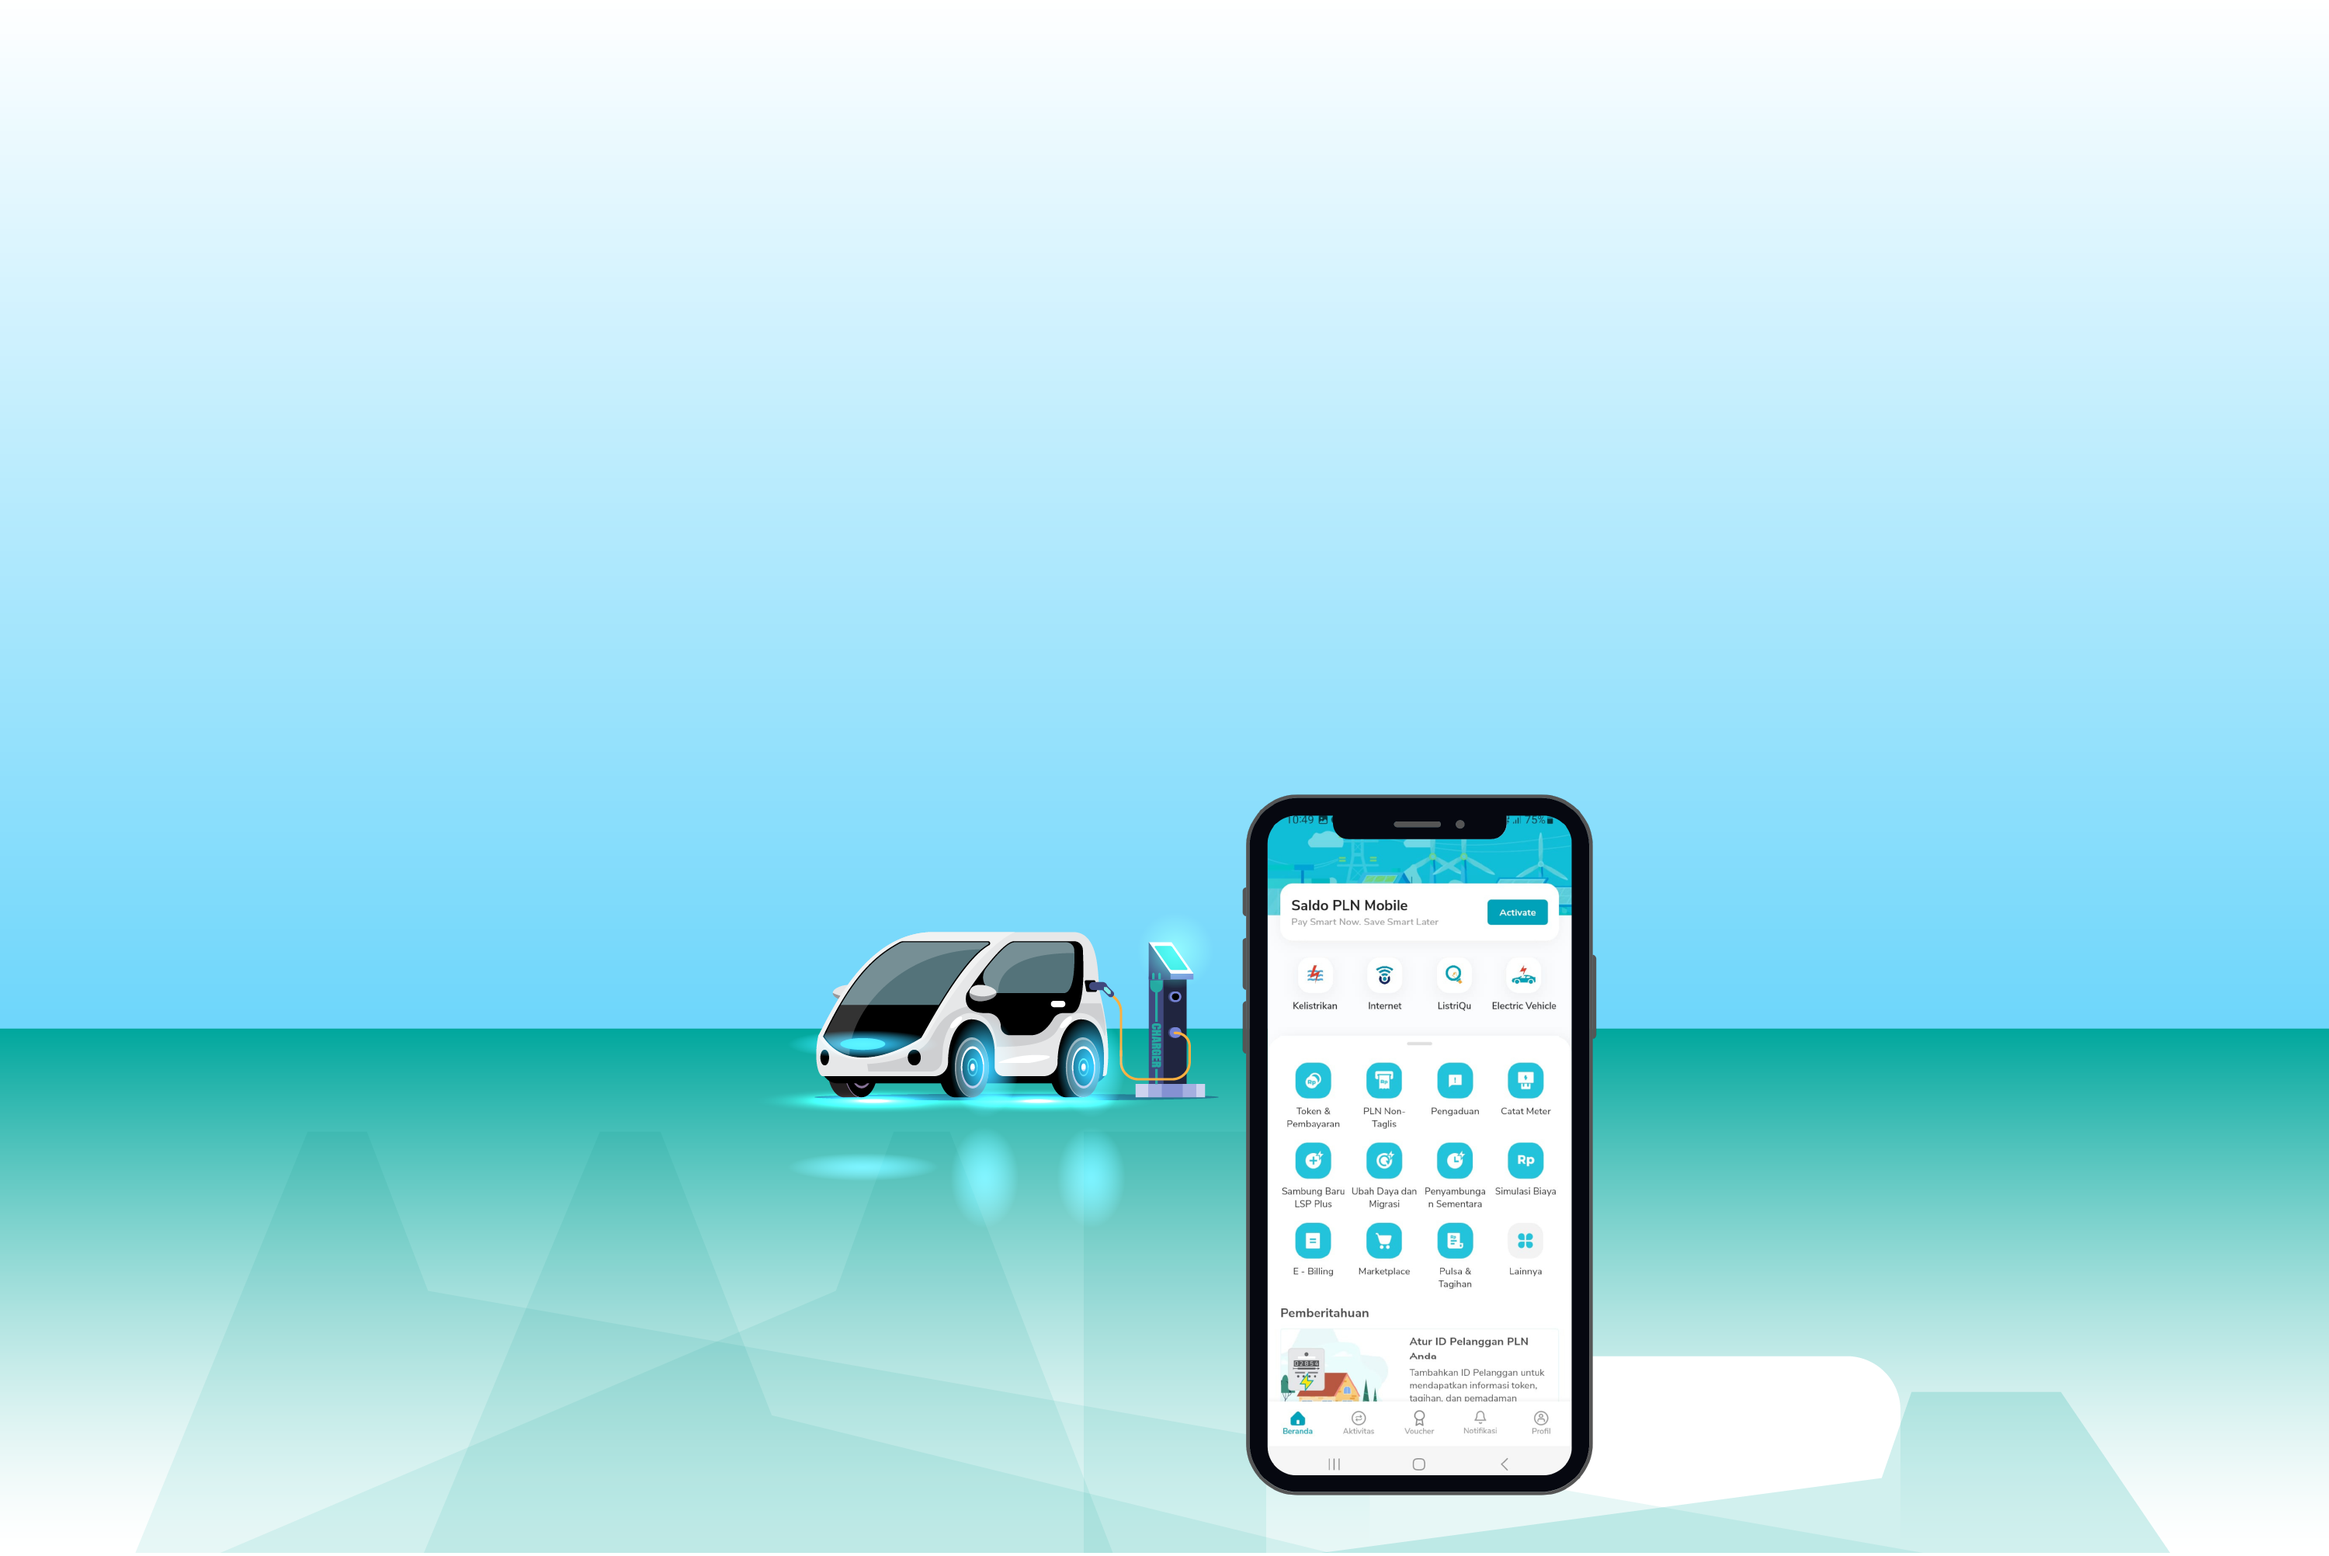
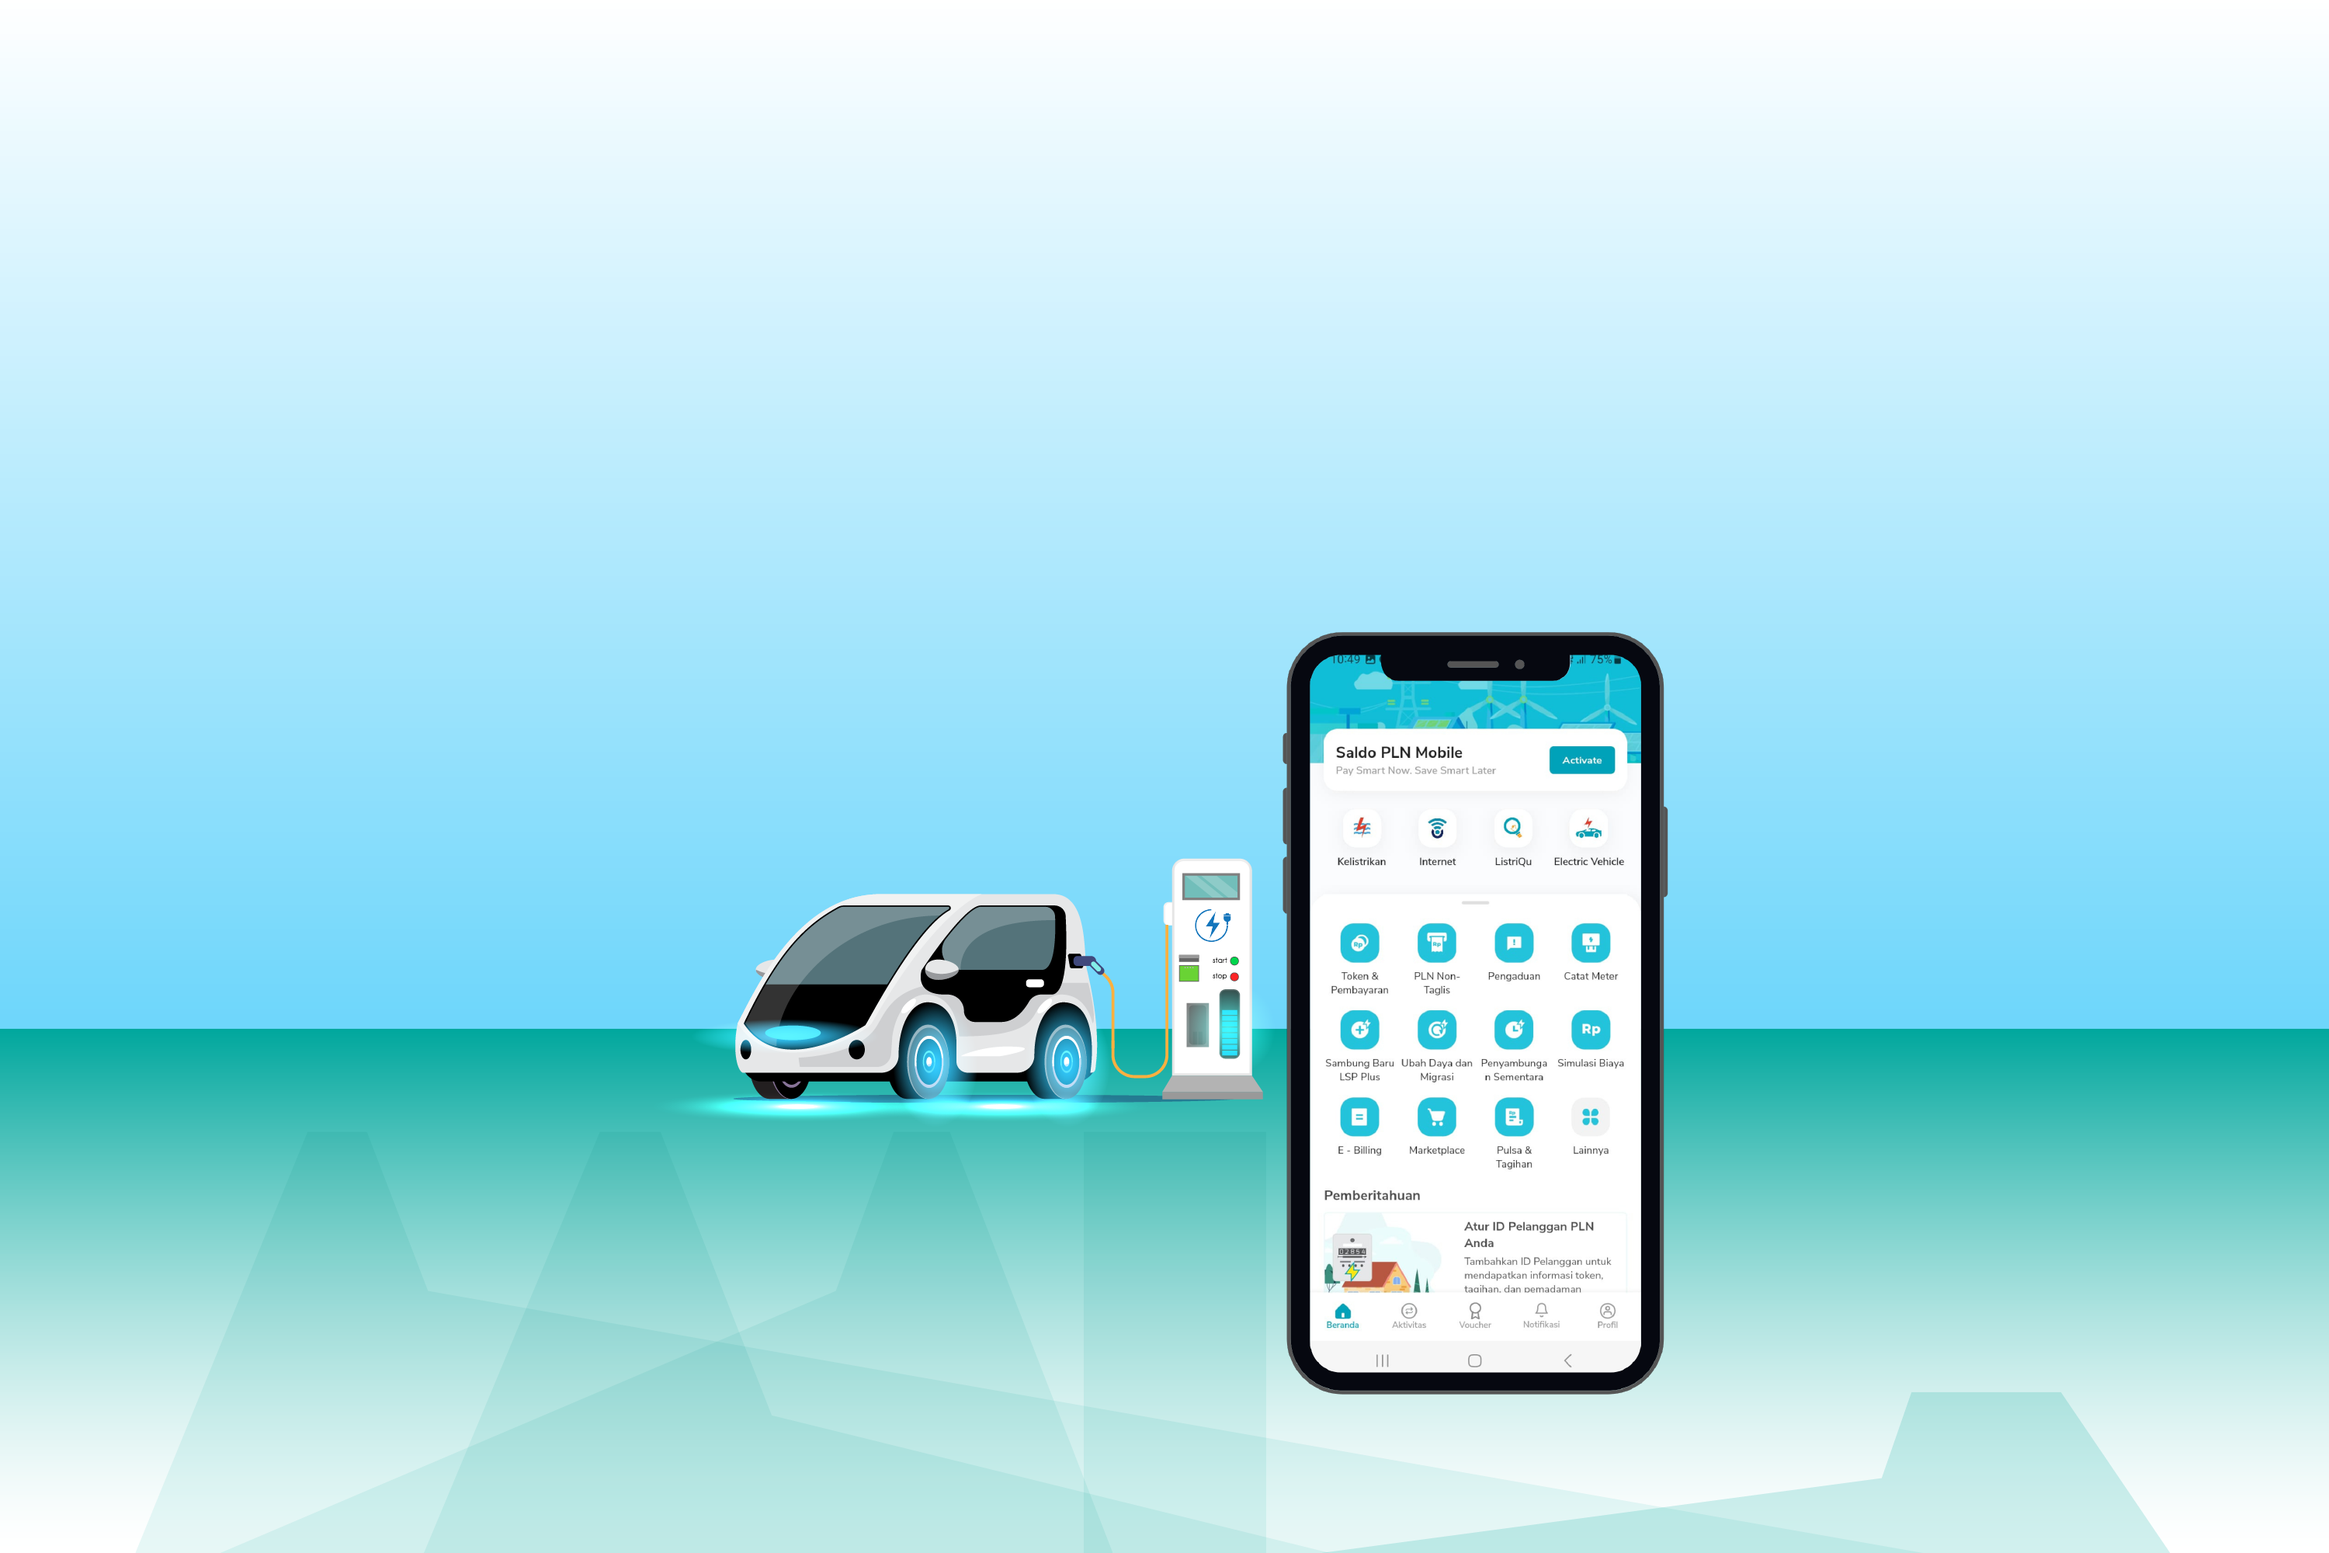
f

Changed region(s): [[0.31, 0.403, 0.837, 0.961], [0.093, 0.992, 0.93, 1.0]]

diff --git a/index.html b/index.html
@@ -32,7 +32,7 @@
                     <h2>Terhadap Mobil Listrik</h2>
                 </div>
                 <div class="img">
-                    <img src="img/banner3.png" alt>
+                    <img src="img/banner.png" alt>
                 </div>
             </section>
 
